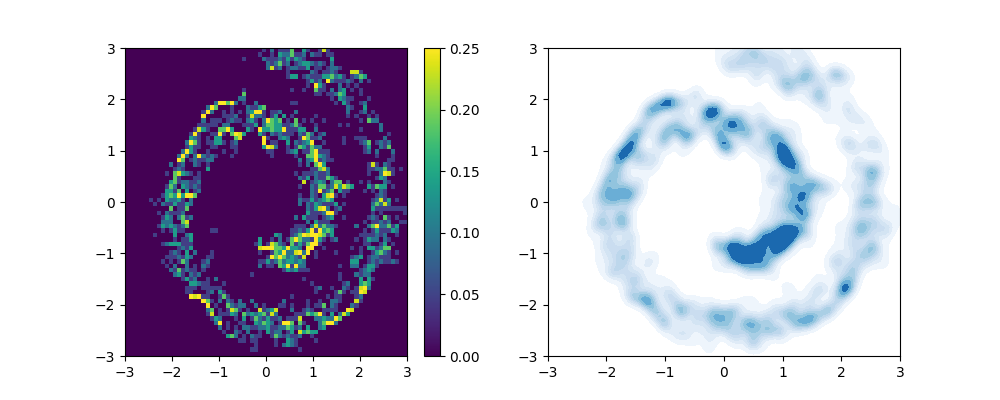
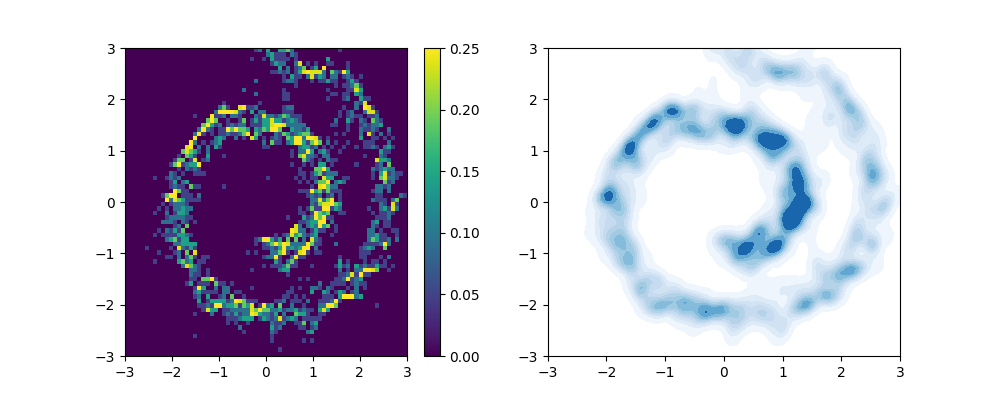
generic commit

Changed region(s): [[0.589, 0.12, 0.899, 0.87], [0.155, 0.12, 0.403, 0.87]]

diff --git a/scripts/transport/kvae_flow.py b/scripts/transport/kvae_flow.py
@@ -715,7 +715,7 @@ def vl_exp(N=10000, n_iter=51, Yd=18, normal=True, exp_name='kvl_exp2', n_transp
 
 def run():
     ref_gen = sample_spirals
-    N = 3000
+    N = 10000
     batch_size = 3000
     two_d_exp(ref_gen, sample_swiss_roll, N=N, n_iter=49, plt_range=[[-3, 3], [-3, 3]], process_funcs=[],
               skip_idx=1, slice_vals=[], slice_range=[-3,3], exp_name='sample_exp', n_transports=100, vmax=.25,
